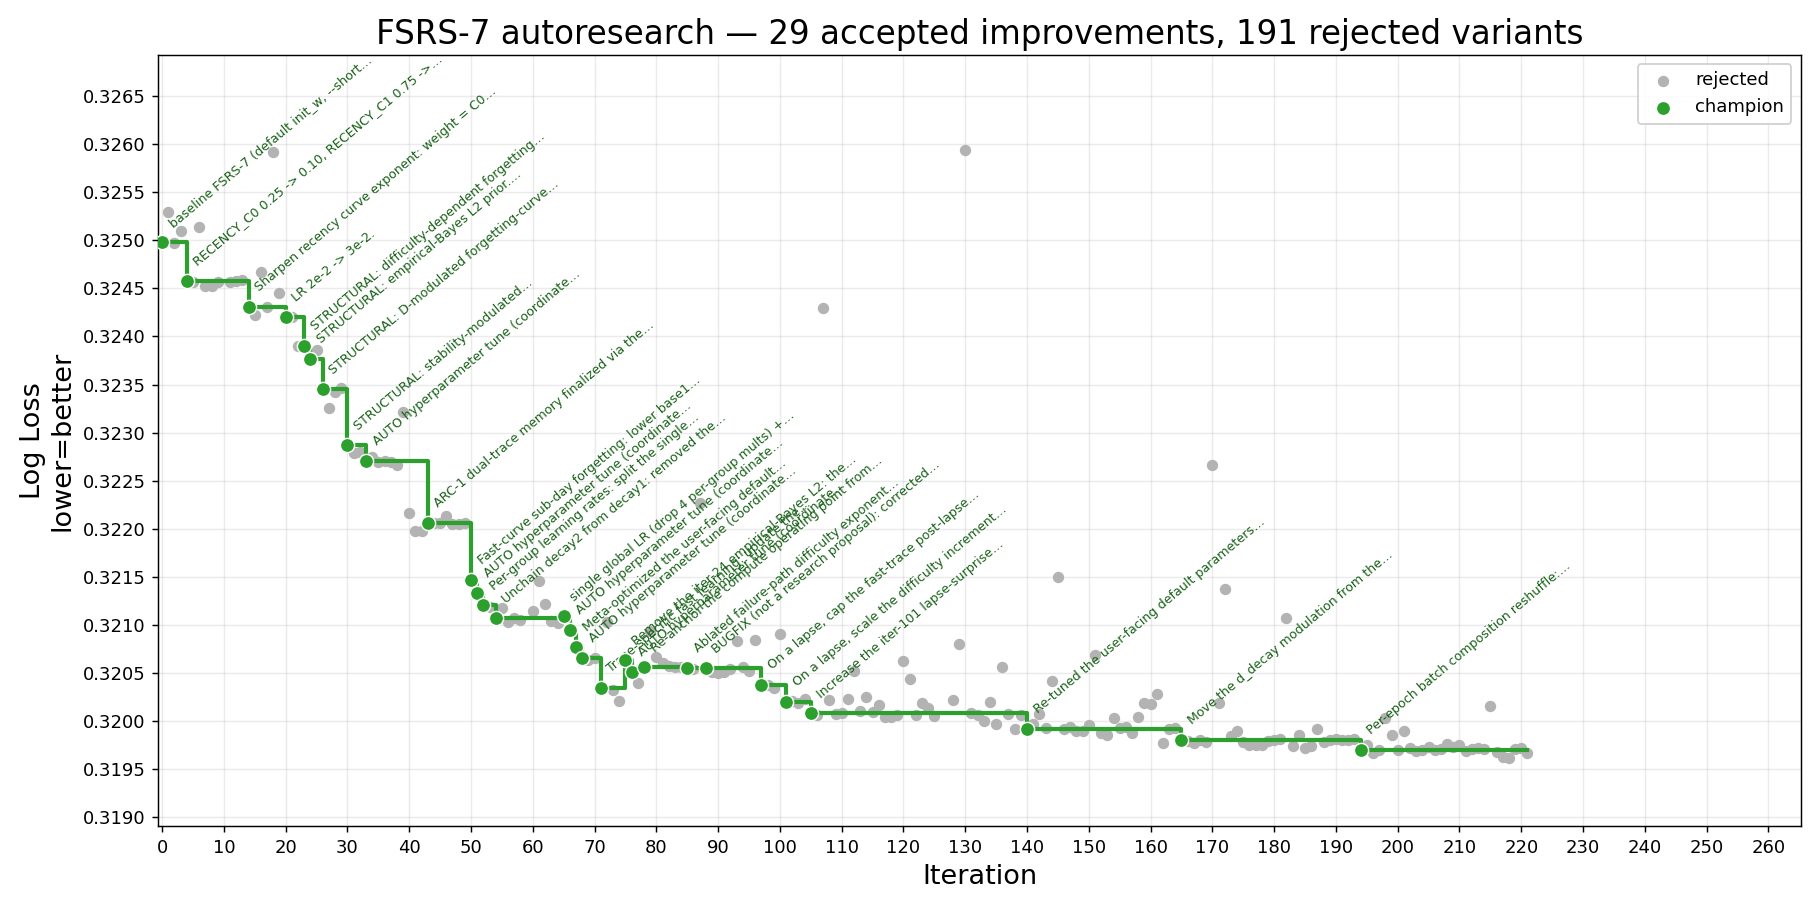
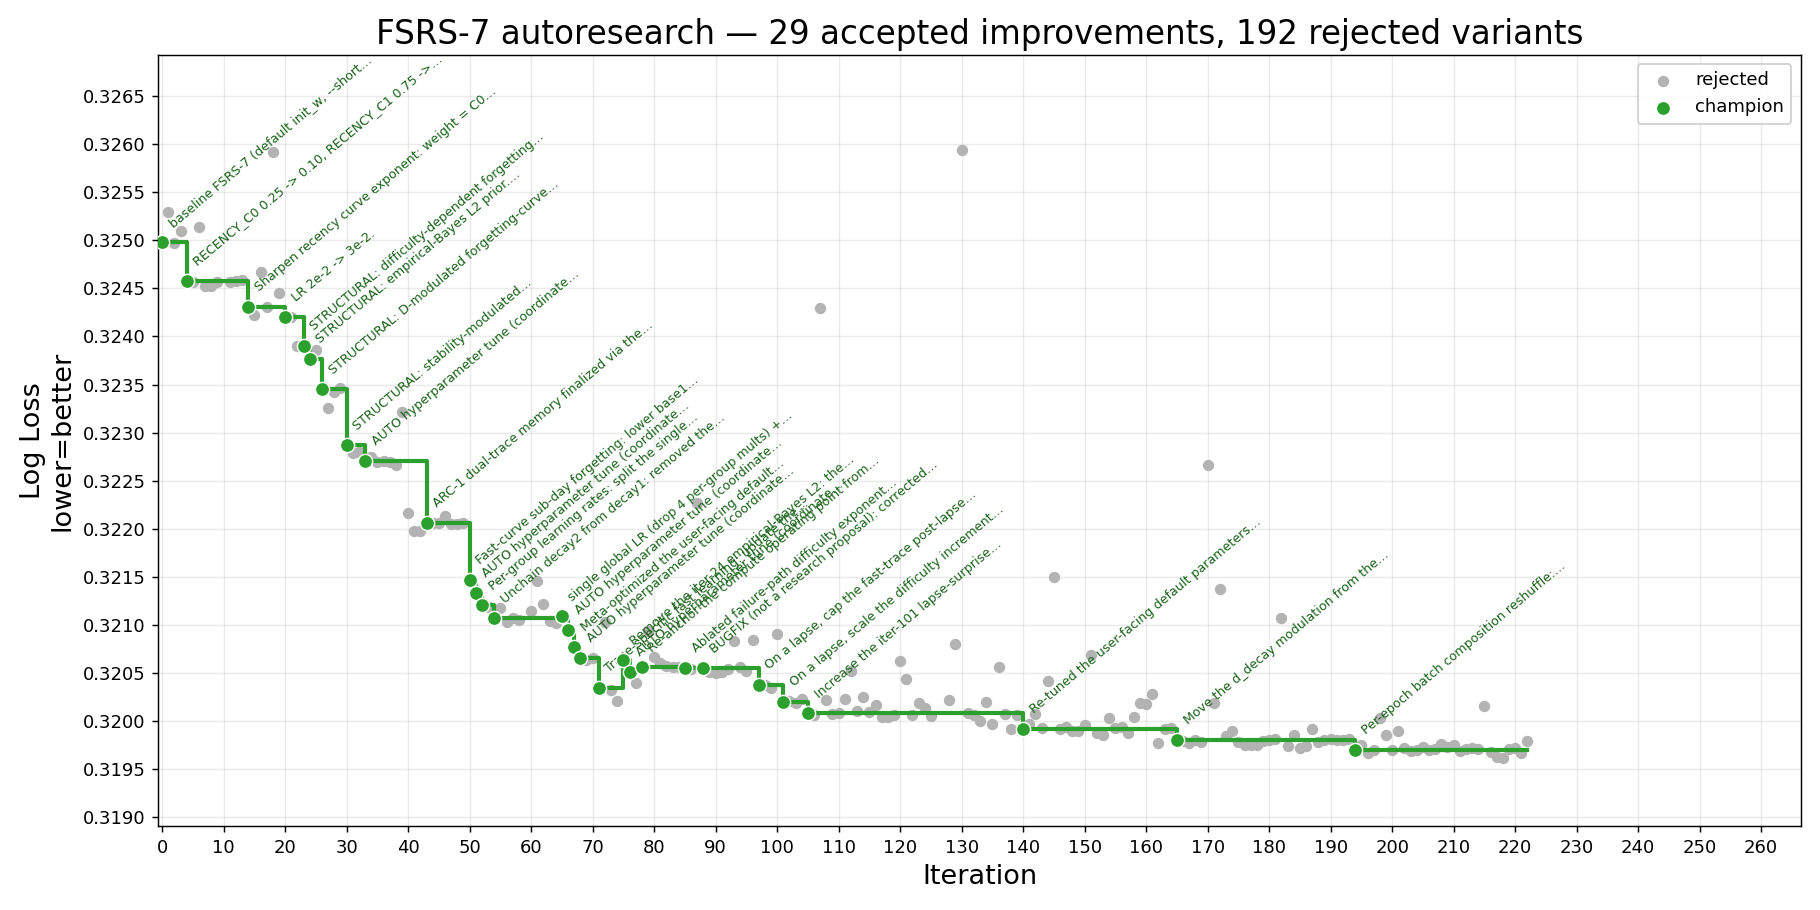
iter-222 rejected (-9.0e-5, bar 0.0004): trainable linear short-init a*S0+b overfits; medians (0.8,0)=champion, 2nd confirmation 0.8*S0 is optimal

diff --git a/result/history.md b/result/history.md
@@ -1,6 +1,6 @@
 # FSRS-7 autoresearch — iteration history
 
-_221 record(s). Generated from `history.jsonl` — do not edit by hand._
+_222 record(s). Generated from `history.jsonl` — do not edit by hand._
 
 | # | Time (UTC) | Thresh. | LL before | LL after | Δ LL | Cx before | Cx after | Δ Cx % | Status | Summary |
 |--:|---|---:|---:|---:|---:|---:|---:|---:|---|---|
@@ -225,3 +225,4 @@ _221 record(s). Generated from `history.jsonl` — do not edit by hand._
 | 219 | 2026-06-12T01:14:26 | 0.0002 | 0.31970 | 0.31970 | -0.00000 | 19,909 | 19,942 | +0.17% | rejected | Retrieval-strength gate on the success stability gain: multiply gain by retention^(w[34]-0.5), shared across traces; +1 trainable param, default neutral. |
 | 220 | 2026-06-12T01:29:46 | 0.0002 | 0.31970 | 0.31971 | -0.00001 | 19,909 | 19,928 | +0.10% | rejected | Shifted S-saturation in the long-trace success gain: powf(s_long, -sinc_s_exp) becomes powf(s_long + w[34], -sinc_s_exp); +1 trainable param sinc_s_shift, default 0. |
 | 221 | 2026-06-14T13:13:08 | 0.0008 | 0.31970 | 0.31967 | +0.00003 | 19,904 | 19,953 | +0.25% | rejected | Per-rating short-trace init fraction: replace hardcoded short_init_frac=0.8 with 4 trainable per-rating fractions (w[34..37]); s_short init = frac[first_rating] * S0. |
+| 222 | 2026-06-14T13:31:42 | 0.0004 | 0.31970 | 0.31979 | -0.00009 | 19,904 | 19,926 | +0.11% | rejected | Linear short-trace init: s_short init = a*S0_long + b, with a (w[34]) and b (w[35]) trainable, replacing the hardcoded 0.8*S0. |
